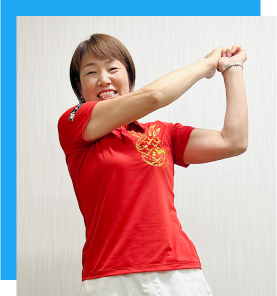
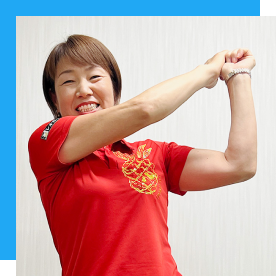
"差し替えとレイアウト調整"

diff --git a/src/components/features/coaches/coaches.php b/src/components/features/coaches/coaches.php
@@ -5,7 +5,7 @@
 <div class="my-20 mx-auto flex flex-col w-4/5 phone:hidden">
 
   <div class="flex gap-6">
-    <img src="<?php echo $absoluteUriPath . '/asset/coaches/coach1.png' ?>" class="resize-none w-[330px] h-[480px]">
+    <img src="<?php echo $absoluteUriPath . '/asset/coaches/coach1.png' ?>" class="resize-none w-[330px] h-[400px]">
     <div class="flex flex-col items-end justify-between">
       <div class="flex flex-col gap-4">
         <div>
@@ -45,7 +45,7 @@
   <img src="<?php echo $absoluteUriPath . '/asset/coaches/twoSpuares.png'; ?>" class="w-[100px] h-[100px] mr-0 ml-auto mb-20">
 
   <div class="flex flex-row-reverse gap-6 mb-10">
-    <img src="<?php echo $absoluteUriPath . '/asset/coaches/coach2.png' ?>" class="resize-none w-[330px] h-[480px]">
+    <img src="<?php echo $absoluteUriPath . '/asset/coaches/coach2.png' ?>" class="resize-none w-[330px] h-[400px]">
 
     <div class="flex flex-col gap-4">
       <div>
